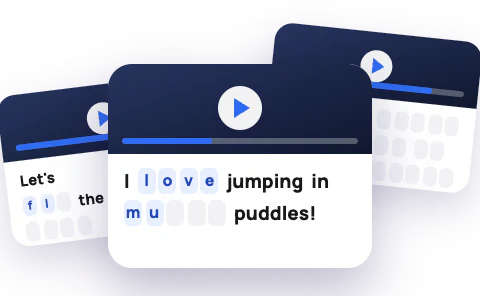
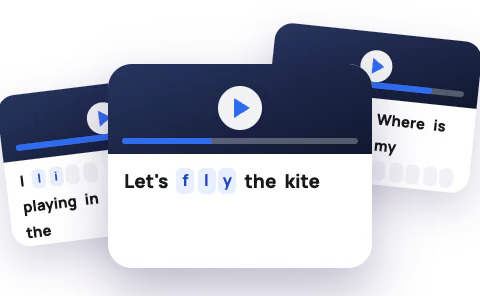
fix(video-dictation): нейтральные фразы на обложке карточки
Фразы заданы в скрипте обложек, а не берутся из фикстур; обложка пересобрана.

diff --git a/scripts/build-practice-card-covers.js b/scripts/build-practice-card-covers.js
@@ -275,11 +275,12 @@ function justListen() {
 }
 
 // Видеодиктант — своя иллюстрация, без кадров мультфильмов (права, спека 2026-11-18): тёмный экран плеера с «плей» и
-// строкой времени, под ним фраза, где пропуски — клетки по буквам. Уроки живут на бэкенде, поэтому фразы — из фикстуры
-// раздела (на ней же ходят vitest и e2e): [слово] — клетки, остальное — словами, фраза без скобок — клетки целиком.
+// строкой времени, под ним фраза, где пропуски — клетки по буквам. [слово] — клетки, остальное — словами, фраза без скобок — клетки целиком. Фразы — свои, нейтральные: из
+// мультфильмов не берём ни кадры, ни реплики.
+const VIDEO_DICTATION_PHRASES = ['I [like] playing in the [park]!', "Let's [fly] the kite", 'Where is my [teddy]?']
+
 function videoDictation() {
-  const { lessons } = json('src/practice/video-dictation/__fixtures__/lessons.json')
-  const phrase = (slug, i) => must(lessons[slug]?.segments?.[i]?.[2], `video dictation: ${slug} #${i}`)
+  const [first, second, third] = VIDEO_DICTATION_PHRASES
   const cells = (word, typed) =>
     `<span class="vdc">${[...word.replace(/[^a-z]/gi, '')]
       .map((c, i) => `<b class="${i < typed ? 'on' : ''}">${i < typed ? c.toLowerCase() : ''}</b>`)
@@ -306,9 +307,9 @@ function videoDictation() {
   const card = (text, typed, played) =>
     `<div class="f tx vd"><div class="vd__scr">${playBtn}<span class="vd__bar"><i style="width:${played}%"></i></span></div><div class="vd__ln">${line(text, typed)}</div></div>`
   return fan(
-    card(phrase('lost-kite-m2x7d', 0), 2, 64),
-    card(phrase('rainy-day-k3f9q', 0), 6, 38),
-    card(phrase('rainy-day-k3f9q', 1), 0, 82),
+    card(first, 2, 64),
+    card(second, 3, 38),
+    card(third, 0, 82),
   )
 }
 
